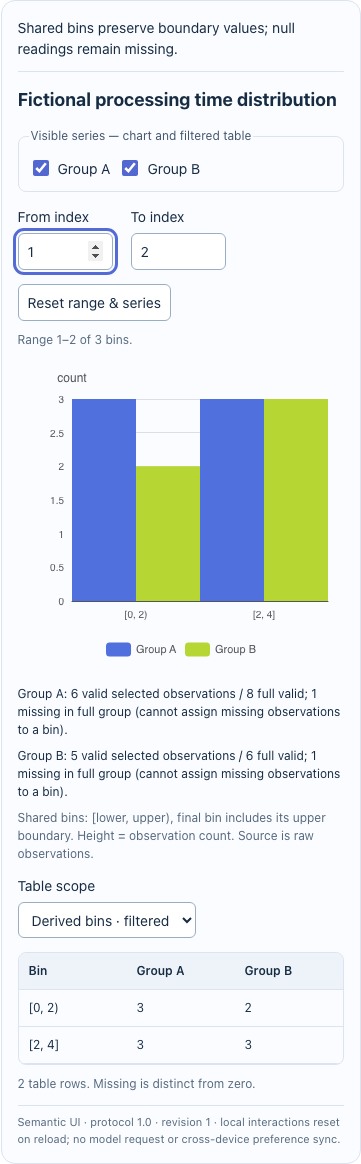
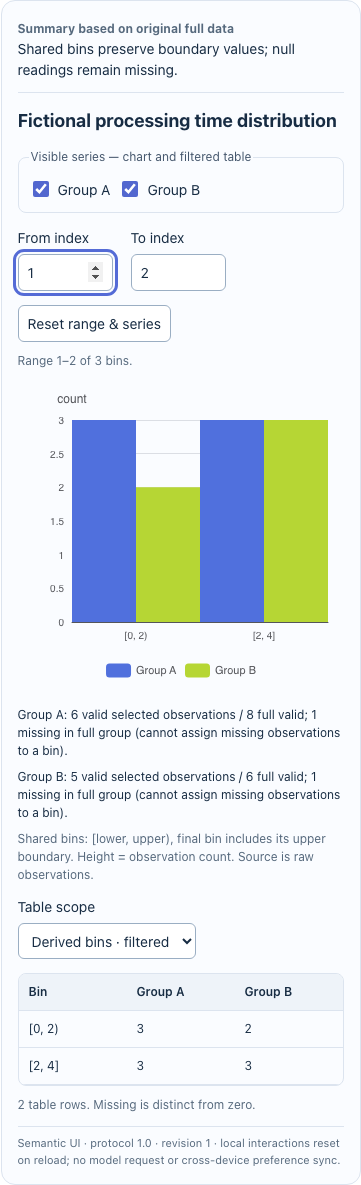
fix: distinguish full-data chart summaries from filtered metrics

diff --git a/src/island.tsx b/src/island.tsx
@@ -13,7 +13,7 @@ const {registry}=defineRegistry(catalog,{components:{ArchitectureExplorer:({prop
 class Boundary extends Component<{children:ReactNode;summary:string},{error:boolean}>{state={error:false};static getDerivedStateFromError(){return {error:true};}render(){return this.state.error?<div className="status-error" role="alert"><strong>Rendering failed.</strong><p>{this.props.summary}</p><p>Reload this view or inspect the text summary. No content was changed.</p></div>:this.props.children;}}
 export function SemanticView({state}:{state:ViewState}){
  const parsed=state.view?validateEnvelope(state.view):null;const issues=state.issues??(parsed&&!parsed.ok?parsed.issues:undefined);const v=parsed?.ok?parsed.value:undefined;
- return <div className="semantic-root" data-state={issues?'validation-failed':v?'completed':'generating'}>{issues?<div role="alert" className="status-error"><strong>Cannot display semantic content</strong>{issues.map((i,n)=><p key={n}>{i.code} · {i.path}: {i.reason} {i.hint}</p>)}</div>:v?<><p className="summary">{v.summary}</p><Boundary key={`${v.displayId}:${v.revision}`} summary={v.summary}><JSONUIProvider registry={registry}><Renderer spec={{root:v.displayId,elements:{[v.displayId]:{type:v.component,props:v.payload,children:[]}}}} registry={registry}/></JSONUIProvider></Boundary><footer>Semantic UI · protocol {v.protocolVersion} · revision {v.revision} · local interactions reset on reload; no model request or cross-device preference sync.</footer></>:<p role="status">Generating semantic content. Waiting for a validated checkpoint.</p>}</div>;
+ return <div className="semantic-root" data-state={issues?'validation-failed':v?'completed':'generating'}>{issues?<div role="alert" className="status-error"><strong>Cannot display semantic content</strong>{issues.map((i,n)=><p key={n}>{i.code} · {i.path}: {i.reason} {i.hint}</p>)}</div>:v?<><p className="summary">{v.component==='DataChart'?<><strong className="meta">Summary based on original full data</strong><br/></>:null}{v.summary}</p><Boundary key={`${v.displayId}:${v.revision}`} summary={v.summary}><JSONUIProvider registry={registry}><Renderer spec={{root:v.displayId,elements:{[v.displayId]:{type:v.component,props:v.payload,children:[]}}}} registry={registry}/></JSONUIProvider></Boundary><footer>Semantic UI · protocol {v.protocolVersion} · revision {v.revision} · local interactions reset on reload; no model request or cross-device preference sync.</footer></>:<p role="status">Generating semantic content. Waiting for a validated checkpoint.</p>}</div>;
 }
 export function mount(element:HTMLElement,initial:ViewState){
  const shadow=element.attachShadow({mode:'open'});const style=document.createElement('style');style.textContent=flowStyles+'\n'+styles;shadow.append(style);const body=document.createElement('div');shadow.append(body);const root=createRoot(body);

diff --git a/docs/PROTOCOL.md b/docs/PROTOCOL.md
@@ -31,7 +31,7 @@ Line/category bar rows use one declared unit and explicit series values or null.
 
 Histograms use raw observations or explicitly pre-aggregated counts and shared strictly increasing, equal-width bin boundaries. Unequal-width bins return `BIN_WIDTH`: the preview does not implement density semantics and must not draw unequal intervals at equal widths or invent rebinning from pre-aggregated counts. Bins are `[lower, upper)`, with the final upper bound included. Out-of-range observations are rejected. Proportion = bin count / selected valid observations in that group; zero denominator gives unknown. Missing observations are reported for the whole group because their bin is unknowable. Range changes select bins, preserving boundaries. The full source and derived selected bins are labeled separately.
 
-Unweighted mean = sum of non-null observations / valid n. Empty/all-missing means are unknown. Overflow is reported as unknown, not infinity. Weighted averages, arbitrary ratios and quantiles are unsupported without a declared method; the schema rejects invented calculation requests. ECharts receives trusted configuration derived from these functions. Filtered metrics update deterministically; a supplied narrative is labeled as applying to the original full dataset.
+Unweighted mean = sum of non-null observations / valid n. Empty/all-missing means are unknown. Overflow is reported as unknown, not infinity. Weighted averages, arbitrary ratios and quantiles are unsupported without a declared method; the schema rejects invented calculation requests. ECharts receives trusted configuration derived from these functions. Filtered metrics update deterministically; both the envelope summary and a supplied narrative are labeled as applying to the original full dataset.
 
 ## State
 
